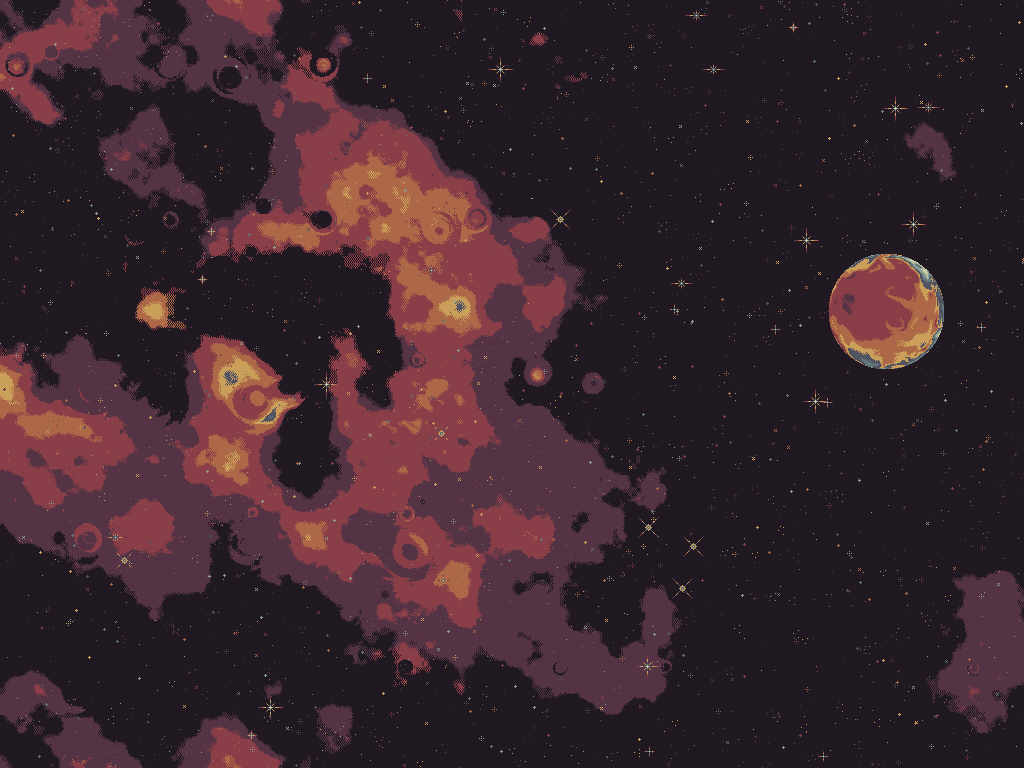
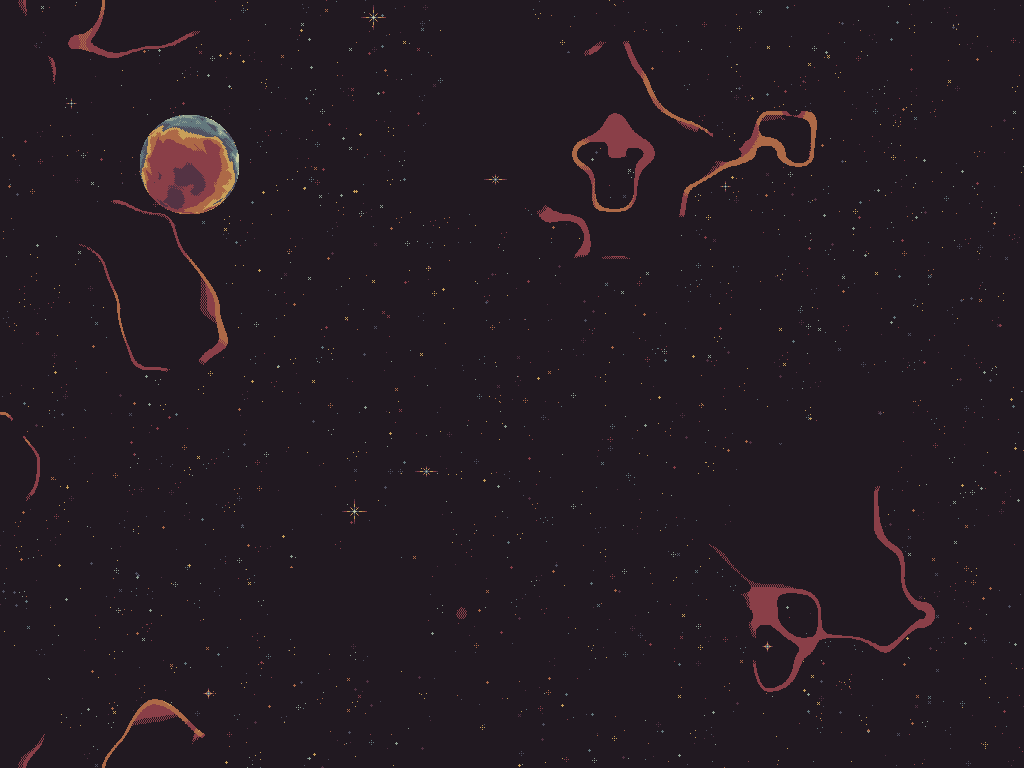
background now works. Need to invert the scrolling.

diff --git a/main.cpp b/main.cpp
@@ -12,11 +12,11 @@ int main() {
 	bool running = true; // Variable to control the main loop's running state.
 
 	Background background;
-	Player player("resources/L.png", vec2((canvas.getWidth() / 2), 2 * canvas.getHeight() / 3));
+	Player player("resources/mainShip.png", vec2((canvas.getWidth() / 2), 2 * canvas.getHeight() / 3));
 
 
 	Timer tim;
-	int y = 0;
+	int x = 0;
 
 	while (running)
 	{
@@ -29,20 +29,13 @@ int main() {
 		float dt = tim.dt();
 		int move = static_cast<int>((500.f * dt));
 
-
-
-		int x = 0;
 		if (canvas.keyPressed(VK_ESCAPE)) break;
-		if (canvas.keyPressed('W')) y += 5;
-		if (canvas.keyPressed('S')) y -= 1;
-		if (canvas.keyPressed('A')) x -= move;
-		if (canvas.keyPressed('D')) x += move;
-
 
 		// Update game logic
 		player.onUpdate(canvas);
 
-		background.draw(canvas, y);
+		x += 2;
+		background.draw(canvas, x);
 		player.draw(canvas);
 
 		// Display the frame on the screen. This must be called once the frame is finished in order to display the frame.

diff --git a/Background.h b/Background.h
@@ -58,7 +58,7 @@ public:
 	}
 
 	void draw(Window& canvas, int wy) {
-		int height = 384;
+		int height = 768;
 		int Y = wy / height;
 		int r = wy % height;
 		tiles[a[Y % MAX_SIZE]].draw(canvas, (canvas.getHeight() / 2) + r);

diff --git a/Player.cpp b/Player.cpp
@@ -2,9 +2,7 @@
 
 
 Player::Player(string sImage, vec2 startPos) : Characters(sImage, startPos)
-{
-		
-}
+{}
 
 void Player::onUpdate(GamesEngineeringBase::Window& window)
 {
